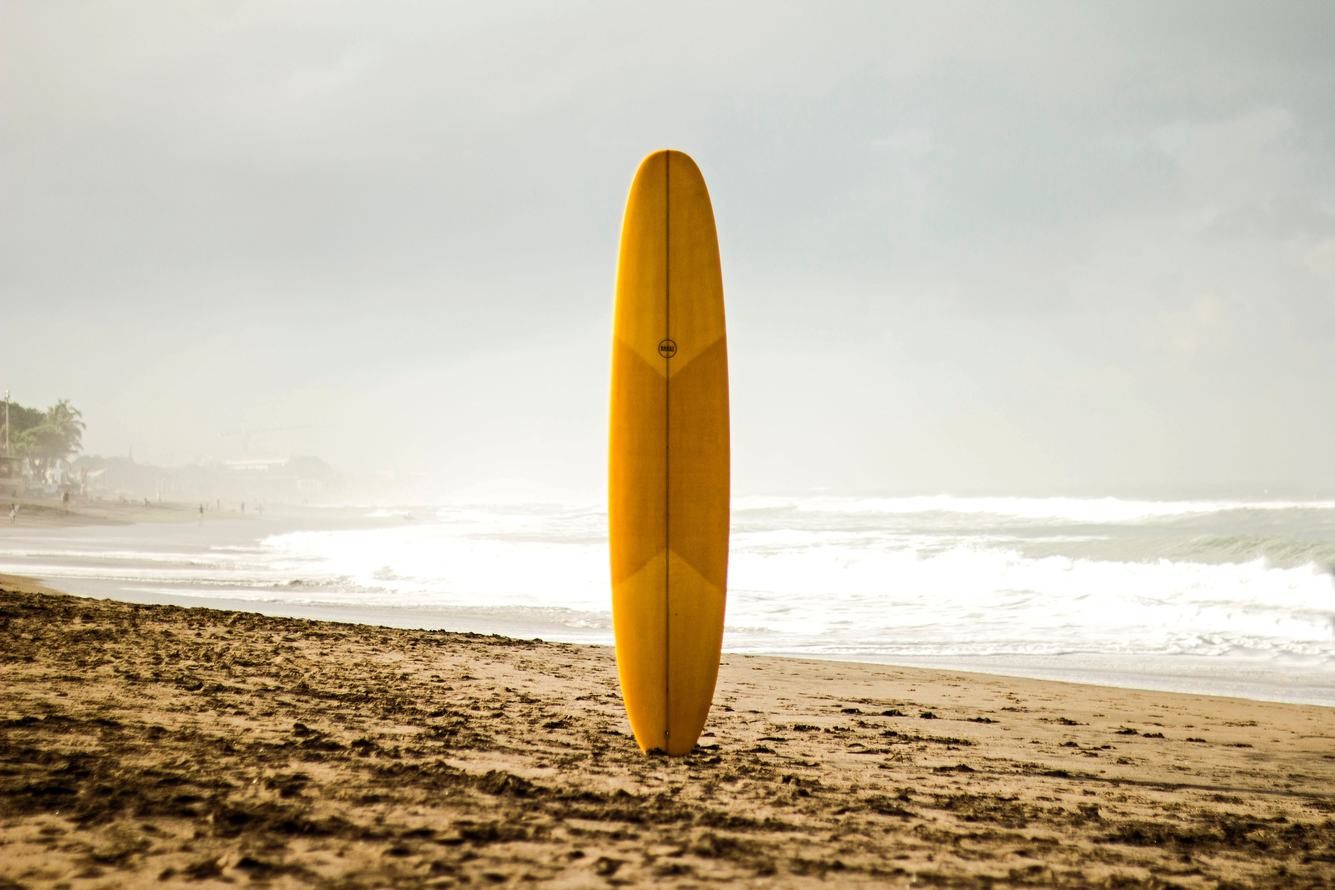
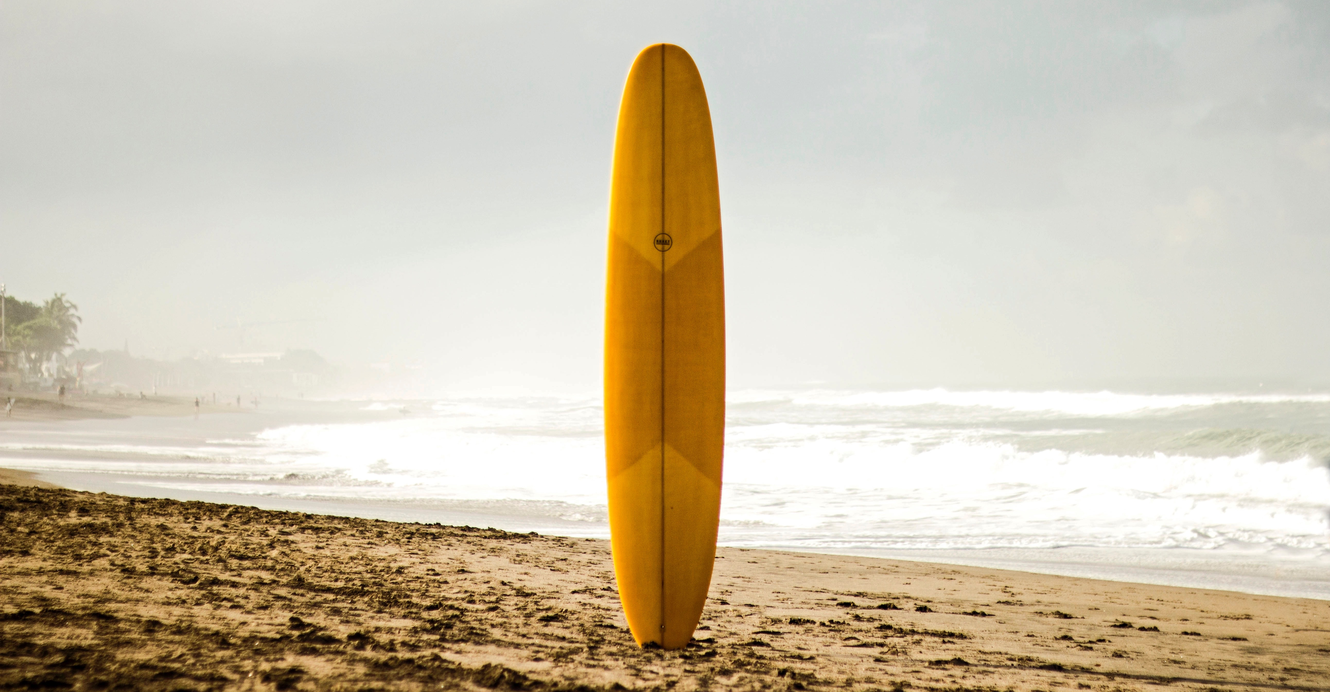
Slightly adjusted size of hero-image and added small amount of styling.

Changed region(s): [[0.0, 0.0625, 1.0, 1.0]]

diff --git a/index.html b/index.html
@@ -3,8 +3,8 @@
 <head>
     <meta charset="UTF-8">
     <meta name="viewport" content="width=device-width, initial-scale=1.0">
-    <link rel="stylesheet" href="https://stackpath.bootstrapcdn.com/bootstrap/4.3.1/css/bootstrap.min.css" 
-    integrity="sha384-ggOyR0iXCbMQv3Xipma34MD+dH/1fQ784/j6cY/iJTQUOhcWr7x9JvoRxT2MZw1T" crossorigin="anonymous">
+    <link href="https://cdn.jsdelivr.net/npm/bootstrap@5.0.0-beta1/dist/css/bootstrap.min.css" rel="stylesheet" 
+    integrity="sha384-giJF6kkoqNQ00vy+HMDP7azOuL0xtbfIcaT9wjKHr8RbDVddVHyTfAAsrekwKmP1" crossorigin="anonymous">
     <link rel="stylesheet" href="https://cdnjs.cloudflare.com/ajax/libs/hover.css/2.3.1/css/hover-min.css" 
     integrity="sha512-csw0Ma4oXCAgd/d4nTcpoEoz4nYvvnk21a8VA2h2dzhPAvjbUIK6V3si7/g/HehwdunqqW18RwCJKpD7rL67Xg==" 
     crossorigin="anonymous"/>
@@ -26,10 +26,11 @@
         </button>
         <div class="collapse navbar-collapse justify-content-center" id="navbarNavAltMarkup">
             <div class="navbar-nav">
-                <a class="nav-item nav-link active" href="index.html">Home | <span class="sr-only">(current)</span></a>
+                <a class="nav-item nav-link active" href="index.html">Home | <span class="sr-only"></span></a>
                 <a class="nav-item nav-link" href="#"> Custom Surfboards | </a>
                 <a class="nav-item nav-link" href="#"> Our Story | </a>
                 <a class="nav-item nav-link" tabindex="-1" href="#openModal"> Newsletter </a>
+    <!----------------------------Modal------------->
                 <div id="openModal" class="modalDialog">
                     <div>
                         <a href="#close" title="Close" class="close hvr-grow"><span> x </span></a>
@@ -49,8 +50,7 @@
     <!---------------------Hero Image-->
     <figure class="hero-image">
         <div class="container-fluid">
-                <img src="assets/images/hero-image.jpg" class="img-fluid" alt="Surfboard stuck into the sand on a beach">
-            </div>
+            <img src="assets/images/hero-image.jpg" class="img-fluid" alt="Surfboard stuck into the sand on a beach">
         </div>
     </figure>
     <!---------------------------------About-->

diff --git a/assets/css/style.css b/assets/css/style.css
@@ -37,7 +37,7 @@ h2 {
 /*------------------------------------------Header-----*/
 
 .logo {
-    max-width: 50%;
+    width: 50%;
     background-position: center;
     background-repeat: no-repeat;
     background-size: cover;
@@ -66,9 +66,6 @@ h2 {
 	background: rgba(0,0,0,0.8);
 	z-index: 99999;
 	opacity:0;
-	/*-webkit-transition: opacity 400ms ease-in;
-	-moz-transition: opacity 400ms ease-in;
-	transition: opacity 400ms ease-in;*/
 	pointer-events: none;
 }
 
@@ -140,4 +137,10 @@ h2 {
 #sign-up {
     padding: 5px;
     width: 80px;
+}
+
+/*----------------------------------------------Hero Image-----------*/
+
+.hero-image {
+    margin-top: 30px;
 }
